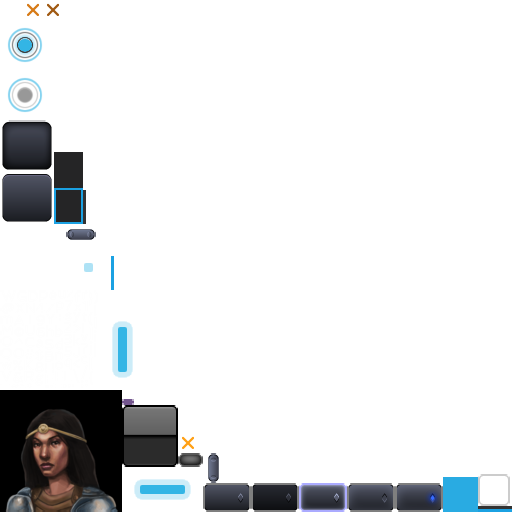
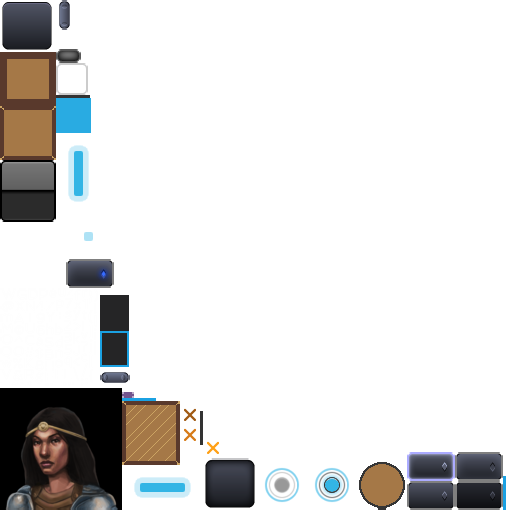
WIP new ui

Changed region(s): [[0.0, 0.5, 1.0, 1.0], [0.0, 0.0, 0.1875, 0.4688]]

diff --git a/core/src/main/java/com/jelte/norii/ui/BottomBar.java b/core/src/main/java/com/jelte/norii/ui/BottomBar.java
@@ -20,7 +20,7 @@ public class BottomBar extends Table {
 	private static final int PAD_BOTTOM_STATS = 10;
 	private static final int PAD_LEFT_STATS = 5;
 	private static final String NO_ABILITY_TEXT = "NoAbility";
-	private static final String BACKGROUND_SKIN = "windowgray";
+	private static final String BACKGROUND_SKIN = "windowWood10Patch";
 	private static final String UNKNOWN_HERO_IMAGE = "nochar";
 	private static final String MOVE_BUTTON_SPRITE_NAME = "move";
 	private static final String ATTACK_BUTTON_SPRITE_NAME = "attack";
